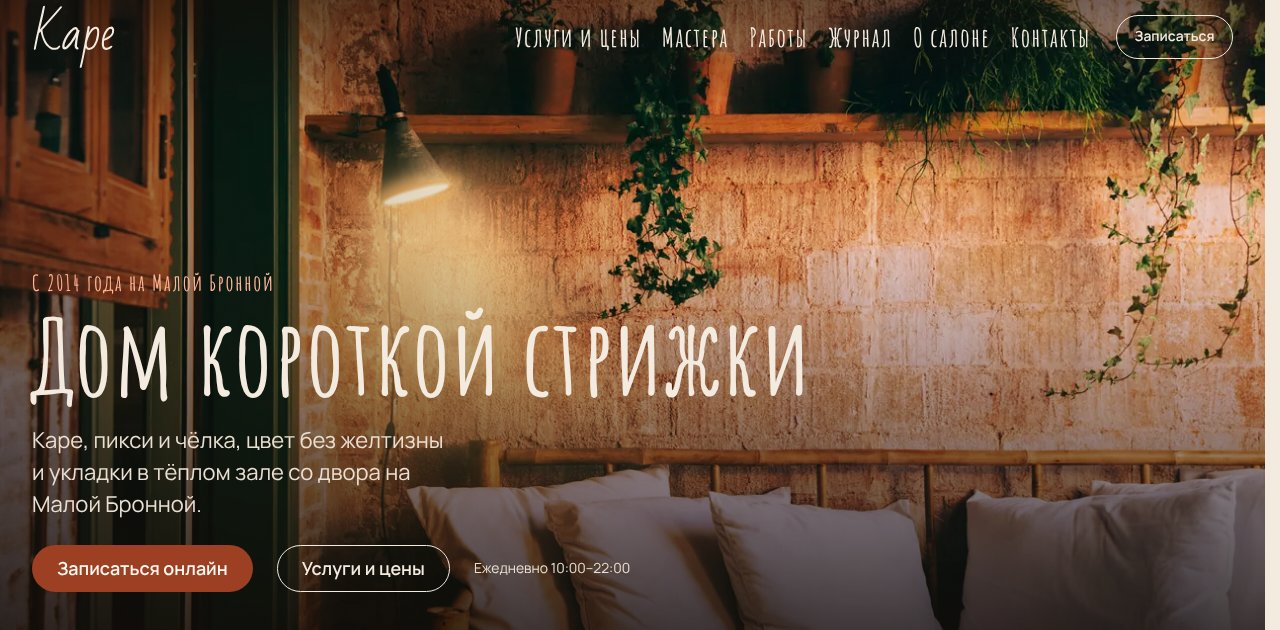
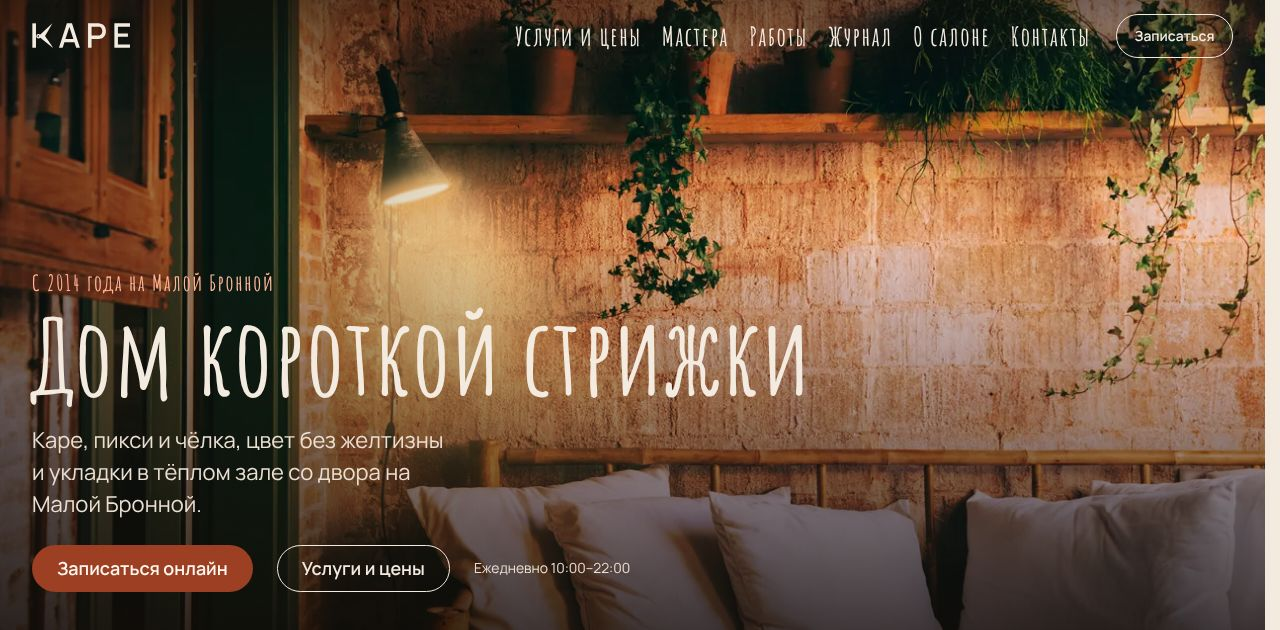
Логотип: «К» из ножниц и «АРЕ» вместо надписи «Каре»
Буква «К» собрана из раскрытых ножниц: ствол, два лезвия вместо
диагоналей и винт на оси. «АРЕ» набраны Manrope SemiBold в кривых.
Лезвия терракотовые на светлом и на зелёном, на фото знак белый.
Новая иконка вкладки. Старая надпись Bad Script и неоновое свечение
удалены. Пути и иконку собирает tools/logo.py.

Claude-Session: https://claude.ai/code/session_01GDXA1n8os4FicMeaCW5n7t

diff --git a/src/styles/global.css b/src/styles/global.css
@@ -6,7 +6,7 @@
 @font-face { font-family: "Manrope"; src: url("../fonts/manrope-cyrillic-600-normal.woff2") format("woff2"); font-weight: 600; font-display: swap; unicode-range: U+0301, U+0400-045F, U+0490-0491, U+04B0-04B1, U+2116; }
 @font-face { font-family: "Manrope"; src: url("../fonts/manrope-latin-600-normal.woff2") format("woff2"); font-weight: 600; font-display: swap; unicode-range: U+0000-00FF, U+0131, U+0152-0153, U+02BB-02BC, U+02C6, U+02DA, U+02DC, U+0304, U+0308, U+0329, U+2000-206F, U+20AC, U+2122, U+2191, U+2193, U+2212, U+2215, U+FEFF, U+FFFD; }
 
-/* Токены «Каре»: тёплый салон. Штукатурка, кирпич, зелёный бархат дивана и неон вывески */
+/* Токены «Каре»: тёплый салон. Штукатурка, кирпич, зелёный бархат дивана и тёплый свет лампы */
 :root {
   --color-bg: #f4ebe0;            /* штукатурка */
   --color-surface: #eadccb;
@@ -21,7 +21,7 @@
   --color-deep-text: #f4ebe0;
   --color-deep-muted: #c9c1b0;    /* 9:1 на зелёном */
   --color-deep-border: #8a917f;   /* рамки полей на зелёном: 4,4:1 */
-  --color-neon: #ff7a4d;
+  --color-accent-bright: #e07a52; /* терракота на зелёном: лезвия логотипа в подвале, выделение текста */
   --color-danger: #a8261b;
   --color-danger-bg: #fbe9e5;
   --color-success: #1d6b45;
@@ -80,7 +80,7 @@ a { color: var(--color-accent); text-underline-offset: 0.18em; text-decoration-t
 @media (hover: hover) { a:hover { text-decoration-thickness: 2px; } }
 :focus-visible { outline: 3px solid var(--color-accent); outline-offset: 2px; }
 [id] { scroll-margin-top: var(--space-s); }
-::selection { background: var(--color-neon); color: #1a0f0a; }
+::selection { background: var(--color-accent-bright); color: #1a0f0a; }
 
 .container { width: min(100% - 2rem, var(--container)); margin-inline: auto; }
 @media (min-width: 768px) { .container { width: min(100% - 4rem, var(--container)); } }
@@ -100,8 +100,8 @@ a { color: var(--color-accent); text-underline-offset: 0.18em; text-decoration-t
 /* ---------- Шапка ---------- */
 .site-header { position: relative; z-index: 5; color: var(--color-text); }
 .site-header__inner { display: flex; align-items: center; flex-wrap: wrap; column-gap: var(--space-s); min-height: var(--header-h); }
-.logo { display: inline-flex; align-items: center; margin-right: auto; padding-block: 0.25rem; color: inherit; transition: opacity var(--duration); }
-.logo svg { width: 5.25rem; height: auto; fill: currentColor; }
+.logo { display: inline-flex; align-items: center; margin-right: auto; padding-block: 0.25rem; color: inherit; transition: opacity var(--duration); --logo-accent: var(--color-accent); }
+.logo svg { width: 6.25rem; height: auto; }
 @media (hover: hover) { .logo:hover { opacity: 0.7; } }
 .logo:active { opacity: 0.55; }
 .site-nav { order: 3; flex-basis: 100%; display: none; }
@@ -139,6 +139,8 @@ a { color: var(--color-accent); text-underline-offset: 0.18em; text-decoration-t
   background: linear-gradient(rgb(20 12 8 / 0.55), rgb(20 12 8 / 0));
 }
 .site-header--over .button--ghost { color: inherit; border-color: currentColor; }
+.site-header--over .logo { --logo-accent: currentColor; }
+.site-header--over.is-open .logo { --logo-accent: var(--color-accent); }
 .site-header--over.is-open { color: var(--color-text); background: var(--color-bg); }
 .site-header--over.is-open::before { opacity: 0; }
 .site-header--over.is-open .button--ghost { color: var(--color-text); }
@@ -175,8 +177,9 @@ a { color: var(--color-accent); text-underline-offset: 0.18em; text-decoration-t
 .link-arrow:active::after { transform: translateX(0.4em); }
 
 /* ---------- Неоновая вывеска ---------- */
-.neon path { fill: #fff4ea; }
-.neon { filter: drop-shadow(0 0 1.5px #fff) drop-shadow(0 0 6px var(--color-neon)) drop-shadow(0 0 18px #ff5f2e) drop-shadow(0 0 42px rgb(255 90 40 / 0.65)); }
+/* Логотип: лезвия ножниц терракотовые на светлом и на зелёном, на фото весь знак одного цвета */
+.logo-mark { fill: currentColor; }
+.logo-mark__blade { fill: var(--logo-accent, currentColor); }
 /* Лампа в зале: через полсекунды после загрузки фото чуть вздрагивает и плавно разгорается.
    Без JS и в режиме без анимаций она сразу горит. */
 @media (prefers-reduced-motion: no-preference) and (scripting: enabled) {
@@ -519,15 +522,14 @@ a { color: var(--color-accent); text-underline-offset: 0.18em; text-decoration-t
   position: relative; display: grid; align-content: space-between; gap: var(--space-l); min-height: 15rem; padding: var(--space-m);
   background: var(--color-deep); color: var(--color-deep-text); border-radius: 6px; overflow: hidden;
 }
-.cert svg { width: 6rem; }
+.cert { --logo-accent: var(--color-accent-bright); }
+.cert svg { width: 7rem; }
 .cert b { font-family: var(--font-display); font-size: var(--step-3); line-height: 1; }
 .cert p { font-size: var(--step--1); color: var(--color-deep-muted); }
-.cert--accent { background: var(--color-accent); }
+.cert--accent { background: var(--color-accent); --logo-accent: currentColor; }
 .cert--accent p { color: #fbe2d6; }
-.cert--light { background: var(--color-surface); color: var(--color-text); }
+.cert--light { background: var(--color-surface); color: var(--color-text); --logo-accent: var(--color-accent); }
 .cert--light p { color: var(--color-muted); }
-.cert--light .neon { filter: none; }
-.cert--light .neon path { fill: var(--color-accent); }
 @media (min-width: 48rem) { .certs { grid-template-columns: repeat(2, 1fr); } }
 @media (min-width: 75rem) { .certs { grid-template-columns: repeat(4, 1fr); } }
 
@@ -593,7 +595,8 @@ a { color: var(--color-accent); text-underline-offset: 0.18em; text-decoration-t
 .site-footer { background: var(--color-deep); color: var(--color-deep-muted); padding-block: var(--space-xl) var(--space-l); font-size: var(--step--1); }
 .site-footer a { color: var(--color-deep-text); }
 .site-footer__grid { display: grid; gap: var(--space-l); }
-.site-footer__brand svg { width: min(16rem, 60vw); }
+.site-footer__brand { --logo-accent: var(--color-accent-bright); }
+.site-footer__brand svg { width: min(15rem, 60vw); color: var(--color-deep-text); }
 .site-footer__brand p { margin-top: var(--space-s); max-width: 30ch; }
 .site-footer h2 { font-size: 1.625rem; color: var(--color-deep-text); margin-bottom: var(--space-xs); letter-spacing: 0.06em; }
 .site-footer ul { list-style: none; padding: 0; }

diff --git a/src/data/logo.ts b/src/data/logo.ts
@@ -1,0 +1,14 @@
+// Собрано tools/logo.py: знак «К» из ножниц и «АРЕ» шрифтом Manrope SemiBold в кривых.
+// Единицы шрифта: высота прописных 1440, базовая линия y = 0, ось y вверх.
+export const logo = {
+  "cap": 1440,
+  "width": 5861,
+  "markWidth": 1230,
+  "stem": "M0 0 L214 0 L214 1440 L0 1440 Z",
+  "blades": [
+    "M364 677 L535 578 L611 580 L682 586 L713 635 L743 685 L773 735 L804 785 L834 835 L864 885 L894 935 L923 985 L953 1036 L983 1086 L1012 1137 L1041 1188 L1070 1239 L1099 1291 L1127 1343 L1155 1395 L1180 1450 L1180 1450 Z",
+    "M364 677 L525 790 L600 795 L671 796 L704 750 L737 704 L771 657 L804 611 L837 565 L870 518 L903 471 L935 425 L968 378 L1001 330 L1033 283 L1065 236 L1097 188 L1129 140 L1160 91 L1191 42 L1220 -10 L1220 -10 Z"
+  ],
+  "screw": "M229 677 a135 135 0 1 0 270 0 a135 135 0 1 0 -270 0 Z M310 677 a54 54 0 1 0 108 0 a54 54 0 1 0 -108 0 Z",
+  "letters": "M1570 0 2038 1440H2339L2807 0H2590L2159 1314H2213L1787 0ZM1813 325V521H2565V325Z M3287 0V1440H3869Q3890 1440 3921.0 1438.5Q3952 1437 3980 1432Q4100 1413 4180.5 1350.0Q4261 1287 4301.0 1191.0Q4341 1095 4341 979Q4341 862 4301.0 766.0Q4261 670 4180.5 607.0Q4100 544 3980 525Q3952 521 3920.5 519.0Q3889 517 3869 517H3496V0ZM3496 715H3861Q3881 715 3905.5 717.0Q3930 719 3952 724Q4016 739 4055.0 779.5Q4094 820 4111.0 873.0Q4128 926 4128 979Q4128 1032 4111.0 1084.5Q4094 1137 4055.0 1177.5Q4016 1218 3952 1233Q3930 1239 3905.5 1241.0Q3881 1243 3861 1243H3496Z M4841 0V1440H5761V1243H5050V839H5641V642H5050V197H5761V0Z"
+};

diff --git a/tools/logo.py b/tools/logo.py
@@ -1,0 +1,83 @@
+"""Логотип «Каре»: буква «К» из раскрытых ножниц и «АРЕ» шрифтом Manrope SemiBold (переведён в кривые).
+
+Пишет src/data/logo.ts (пути знака «К» и букв «АРЕ», размеры) и public/favicon.svg (знак на терракоте).
+Запуск: python3 tools/logo.py
+(нужны fonttools и brotli). Единицы — единицы шрифта Manrope: высота прописных 1440, базовая линия y = 0.
+"""
+import os, math, json
+from fontTools.ttLib import TTFont
+from fontTools.pens.svgPathPen import SVGPathPen
+from fontTools.pens.transformPen import TransformPen
+
+os.chdir(os.path.join(os.path.dirname(os.path.abspath(__file__)), ".."))
+font = TTFont("src/fonts/manrope-cyrillic-600-normal.woff2")
+cmap, glyphs = font.getBestCmap(), font.getGlyphSet()
+CAP = 1440          # высота прописных
+STEM = 214          # толщина основного штриха Manrope SemiBold при этой высоте
+TRACK = 300         # разрядка между буквами
+
+def f(v):
+    return f"{v:.0f}"
+
+def poly(points):
+    return "M" + " L".join(f"{f(x)} {f(y)}" for x, y in points) + " Z"
+
+# --- Знак «К»: ствол буквы, ось ножниц на стволе, два раскрытых лезвия вместо диагоналей ---
+pivot = (STEM + 150, CAP * 0.47)
+def blade(tip, back_side):
+    """Лезвие: прямая режущая кромка от оси до кончика, спинка выгнута наружу (back_side = ±1)."""
+    px, py = pivot
+    tx, ty = tip
+    L = math.hypot(tx - px, ty - py)
+    ux, uy = (tx - px) / L, (ty - py) / L
+    nx, ny = -uy * back_side, ux * back_side
+    back = []
+    for i in range(0, 21):
+        t = i / 20
+        w = 330 * (1 - t) ** 0.9 * min(1, (t + 0.1) / 0.25)  # шире у оси, к кончику сходится в точку
+        back.append((px + ux * L * t + nx * w, py + uy * L * t + ny * w))
+    # кромка: от оси по спинке к кончику и обратно по прямой
+    return "M" + f(px) + " " + f(py) + " " + " ".join("L" + f(x) + " " + f(y) for x, y in back[1:]) + f" L{f(tx)} {f(ty)} Z"
+
+top = blade((1180, CAP + 10), -1)
+bottom = blade((1220, -10), 1)
+stem = poly([(0, 0), (STEM, 0), (STEM, CAP), (0, CAP)])
+screw_r = 135
+k_width = 1230
+
+def circle(cx, cy, r):
+    return f"M{f(cx - r)} {f(cy)} a{f(r)} {f(r)} 0 1 0 {f(2 * r)} 0 a{f(r)} {f(r)} 0 1 0 {f(-2 * r)} 0 Z"
+
+# Винт на оси: кольцо, в отверстие видно фон (fill-rule evenodd)
+screw = circle(*pivot, screw_r) + " " + circle(*pivot, screw_r * 0.4)
+
+# --- «АРЕ» из шрифта ---
+x = k_width + TRACK
+letters = []
+for ch in "АРЕ":
+    g = cmap[ord(ch)]
+    pen = SVGPathPen(glyphs)
+    glyphs[g].draw(TransformPen(pen, (1, 0, 0, 1, x, 0)))
+    letters.append(pen.getCommands())
+    x += glyphs[g].width + TRACK
+width = x - TRACK
+
+# В SVG ось y смотрит вниз: переворачиваем всё одной трансформацией в компоненте
+data = {
+    "cap": CAP, "width": round(width), "markWidth": k_width,
+    "stem": stem, "blades": [top, bottom], "screw": screw,
+    "letters": " ".join(letters),
+}
+with open("src/data/logo.ts", "w") as out:
+    out.write("// Собрано tools/logo.py: знак «К» из ножниц и «АРЕ» шрифтом Manrope SemiBold в кривых.\n")
+    out.write("// Единицы шрифта: высота прописных 1440, базовая линия y = 0, ось y вверх.\n")
+    out.write("export const logo = " + json.dumps(data, ensure_ascii=False, indent=2) + ";\n")
+print("width", round(width))
+
+# Иконка вкладки: знак цвета штукатурки на терракотовом квадрате
+SIZE = 2000
+dx, dy = (SIZE - k_width) / 2 + 20, (SIZE + CAP) / 2
+mark = f'<path d="{stem}"/><path d="{top}"/><path d="{bottom}"/><path d="{screw}" fill-rule="evenodd"/>'
+with open("public/favicon.svg", "w") as out:
+    out.write(f'<svg xmlns="http://www.w3.org/2000/svg" viewBox="0 0 {SIZE} {SIZE}"><rect width="{SIZE}" height="{SIZE}" rx="360" fill="#9c3f22"/>'
+              f'<g fill="#f4ebe0" transform="translate({f(dx)} {f(dy)}) scale(1 -1)">{mark}</g></svg>\n')

diff --git a/README.md b/README.md
@@ -43,6 +43,10 @@
 
 Включение запускает `main.js` (класс `is-ready`) и `@keyframes lamp-on` в `global.css`. В режиме без анимаций и без JavaScript лампа сразу горит. На вертикальных экранах (телефон) лампы в кадре нет, там просто фото.
 
+## Логотип
+
+Буква «К» собрана из раскрытых ножниц: ствол буквы, два лезвия вместо диагоналей и винт на оси, через отверстие в винте видно фон. «АРЕ» набраны шрифтом сайта Manrope SemiBold и переведены в кривые, поэтому логотип чёткий в любом размере и не ждёт загрузки шрифта. Пути собирает `tools/logo.py` (нужны `fonttools` и `brotli`): он пишет `src/data/logo.ts` и иконку вкладки `public/favicon.svg`. Компонент `src/components/Logo.astro`, цвет лезвий задаёт CSS-переменная `--logo-accent`: терракота на светлом и на зелёном, на фото весь знак белый.
+
 ## Запись
 
 Сейчас на сайте своя форма: заявка уходит администратору через [Formspree](https://formspree.io) (вписать адрес формы в `formAction` в `src/data/site.ts` вместо `YOUR_FORM_ID`; пока его нет, форма честно пишет, что не подключена). Под выбором услуги и мастера форма показывает цену у этого мастера.

diff --git a/CREDITS.md b/CREDITS.md
@@ -57,8 +57,7 @@
 Лицензия SIL Open Font License 1.1, тексты лицензий в `src/fonts/OFL-*.txt`. Файлы взяты из пакетов [Fontsource](https://fontsource.org).
 
 - [Amatic SC](https://github.com/googlefonts/AmaticSC) — Vernon Adams, Ben Nathan: заголовки и меню
-- [Manrope](https://github.com/sharanda/manrope) — Mikhail Sharanda: основной текст
-- [Bad Script](https://github.com/alexeiva/badscript) — The Bad Script Project Authors: надпись «Каре» на вывеске и в логотипе, переведена в кривые (`src/data/wordmark.ts`), сам шрифт сайт не загружает
+- [Manrope](https://github.com/sharanda/manrope) — Mikhail Sharanda: основной текст и буквы «АРЕ» в логотипе (переведены в кривые, `src/data/logo.ts`)
 
 ## Код
 
